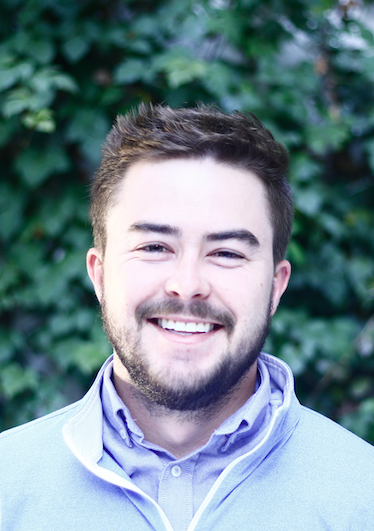
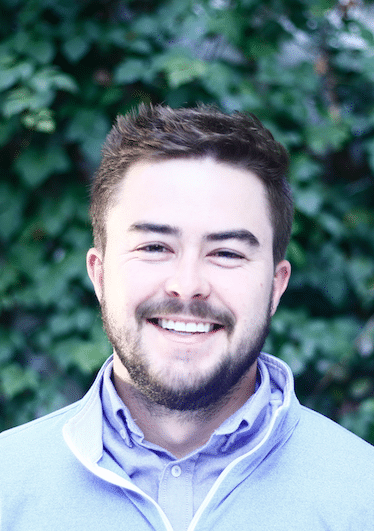
resized images for better performance

diff --git a/public/index.html b/public/index.html
@@ -6,8 +6,8 @@
     <meta name="theme-color" content="#000000" />
     <meta property='og:title' content='Smart Reach | Reaching Beyond The Gap'/>
     <meta property='og:image' content="${require(`./src/assets/images/seo-image.png`)}"/>
-    <meta property='og:description' content='Description that will show in the preview'/>
-    <meta property='og:url' content='//www.example.com/URL of the article'/>
+    <meta property='og:description' content='Smart Reach is a not-for-profit tutoring service founded on the idea that by providing educational support to economically disadvantaged students, we can bridge societal, medical, educational, and economical gaps between people, communities, and cities alike.'/>
+    <meta property='og:url' content='//www.thesmartreach.org'/>
     
     <link rel="preconnect" href="https://fonts.gstatic.com">
     <link href="https://fonts.googleapis.com/css2?family=Jura:wght@300;400;700&display=swap" rel="stylesheet">

diff --git a/src/components/Team.js b/src/components/Team.js
@@ -1,9 +1,4 @@
 import React from 'react';
-import Jamo from "../assets/images/team_photos/jamo.png";
-import Mullen from "../assets/images/team_photos/mullen.jpg";
-import Lou from "../assets/images/team_photos/lou.jpeg";
-import Julia from "../assets/images/team_photos/julia.png";
-import Cam from "../assets/images/team_photos/cam.jpeg";
 import CamCrop from "../assets/images/team_photos/cam_crop.png";
 import JamoCrop from "../assets/images/team_photos/jamo_crop.png";
 import MullenCrop from "../assets/images/team_photos/mullen_crop.png";

diff --git a/src/sass/pages/_about.scss b/src/sass/pages/_about.scss
@@ -1,7 +1,7 @@
 .about-banner {
   width: 100%;
   height: 400px;
-  background: url('../../assets/images/classroom.jpeg');
+  background: url('../../assets/images/classroom.jpg');
   background-size: cover;
   background-repeat: no-repeat;
   position: relative;

diff --git a/src/sass/pages/_partners.scss b/src/sass/pages/_partners.scss
@@ -1,7 +1,7 @@
 .partner-banner {
   width: 100%;
   height: 400px;
-  background: url('../../assets/images/school.jpeg');
+  background: url('../../assets/images/school.jpg');
   background-size: cover;
   background-repeat: no-repeat;
   position: relative;
